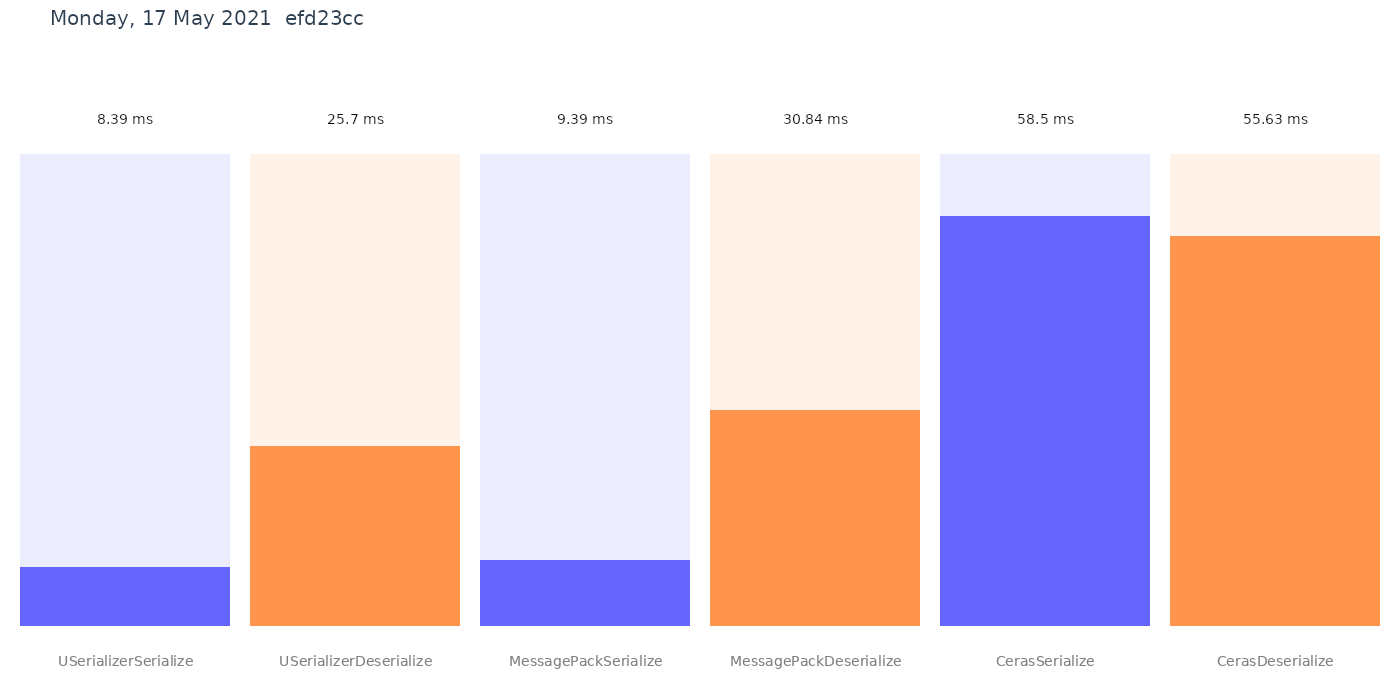
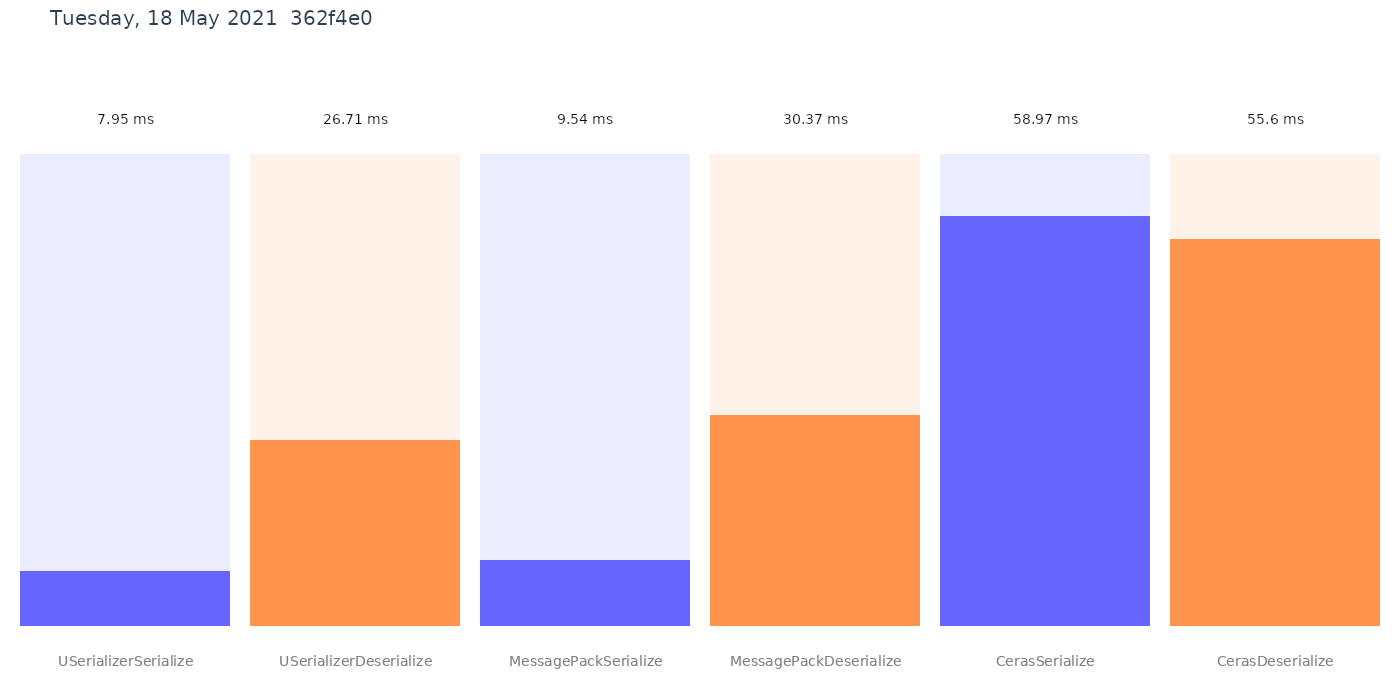
deploy: 362f4e0da592194159c09ce6480eed5d4d7bb2e0

diff --git a/performance.md b/performance.md
@@ -10,11 +10,11 @@ Job=ShortRun  IterationCount=3  LaunchCount=1
 WarmupCount=3  
 
 ```
-|                 Method |      Mean |      Error |    StdDev |
-|----------------------- |----------:|-----------:|----------:|
-|   USerializerSerialize |  8.391 ms |  1.6646 ms | 0.0912 ms |
-| USerializerDeserialize | 25.696 ms |  3.5129 ms | 0.1926 ms |
-|   MessagePackSerialize |  9.385 ms |  0.7866 ms | 0.0431 ms |
-| MessagePackDeserialize | 30.838 ms | 12.7818 ms | 0.7006 ms |
-|         CerasSerialize | 58.503 ms |  5.1733 ms | 0.2836 ms |
-|       CerasDeserialize | 55.634 ms |  3.1500 ms | 0.1727 ms |
+|                 Method |      Mean |     Error |    StdDev |
+|----------------------- |----------:|----------:|----------:|
+|   USerializerSerialize |  7.952 ms | 0.0293 ms | 0.0016 ms |
+| USerializerDeserialize | 26.714 ms | 3.6795 ms | 0.2017 ms |
+|   MessagePackSerialize |  9.542 ms | 0.1627 ms | 0.0089 ms |
+| MessagePackDeserialize | 30.370 ms | 1.3679 ms | 0.0750 ms |
+|         CerasSerialize | 58.973 ms | 0.4212 ms | 0.0231 ms |
+|       CerasDeserialize | 55.603 ms | 0.6157 ms | 0.0337 ms |
